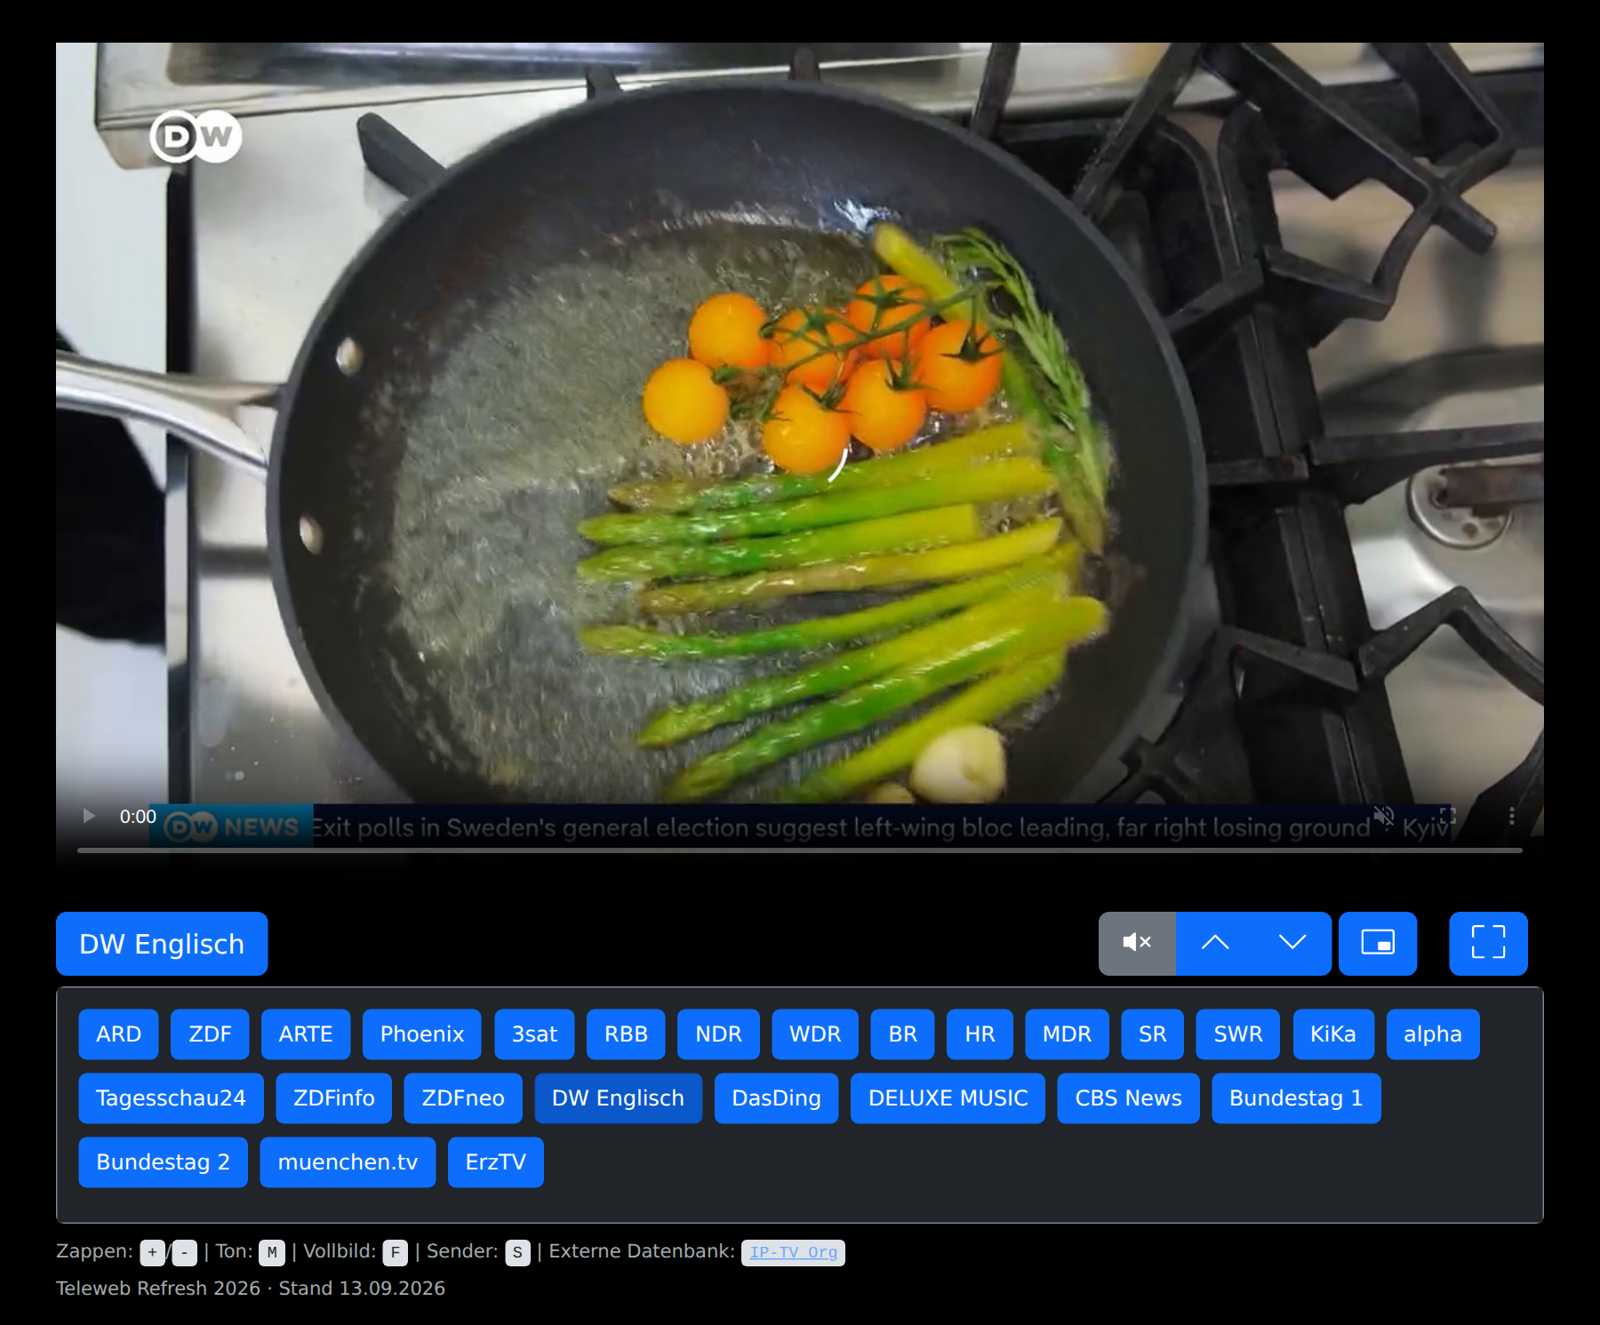
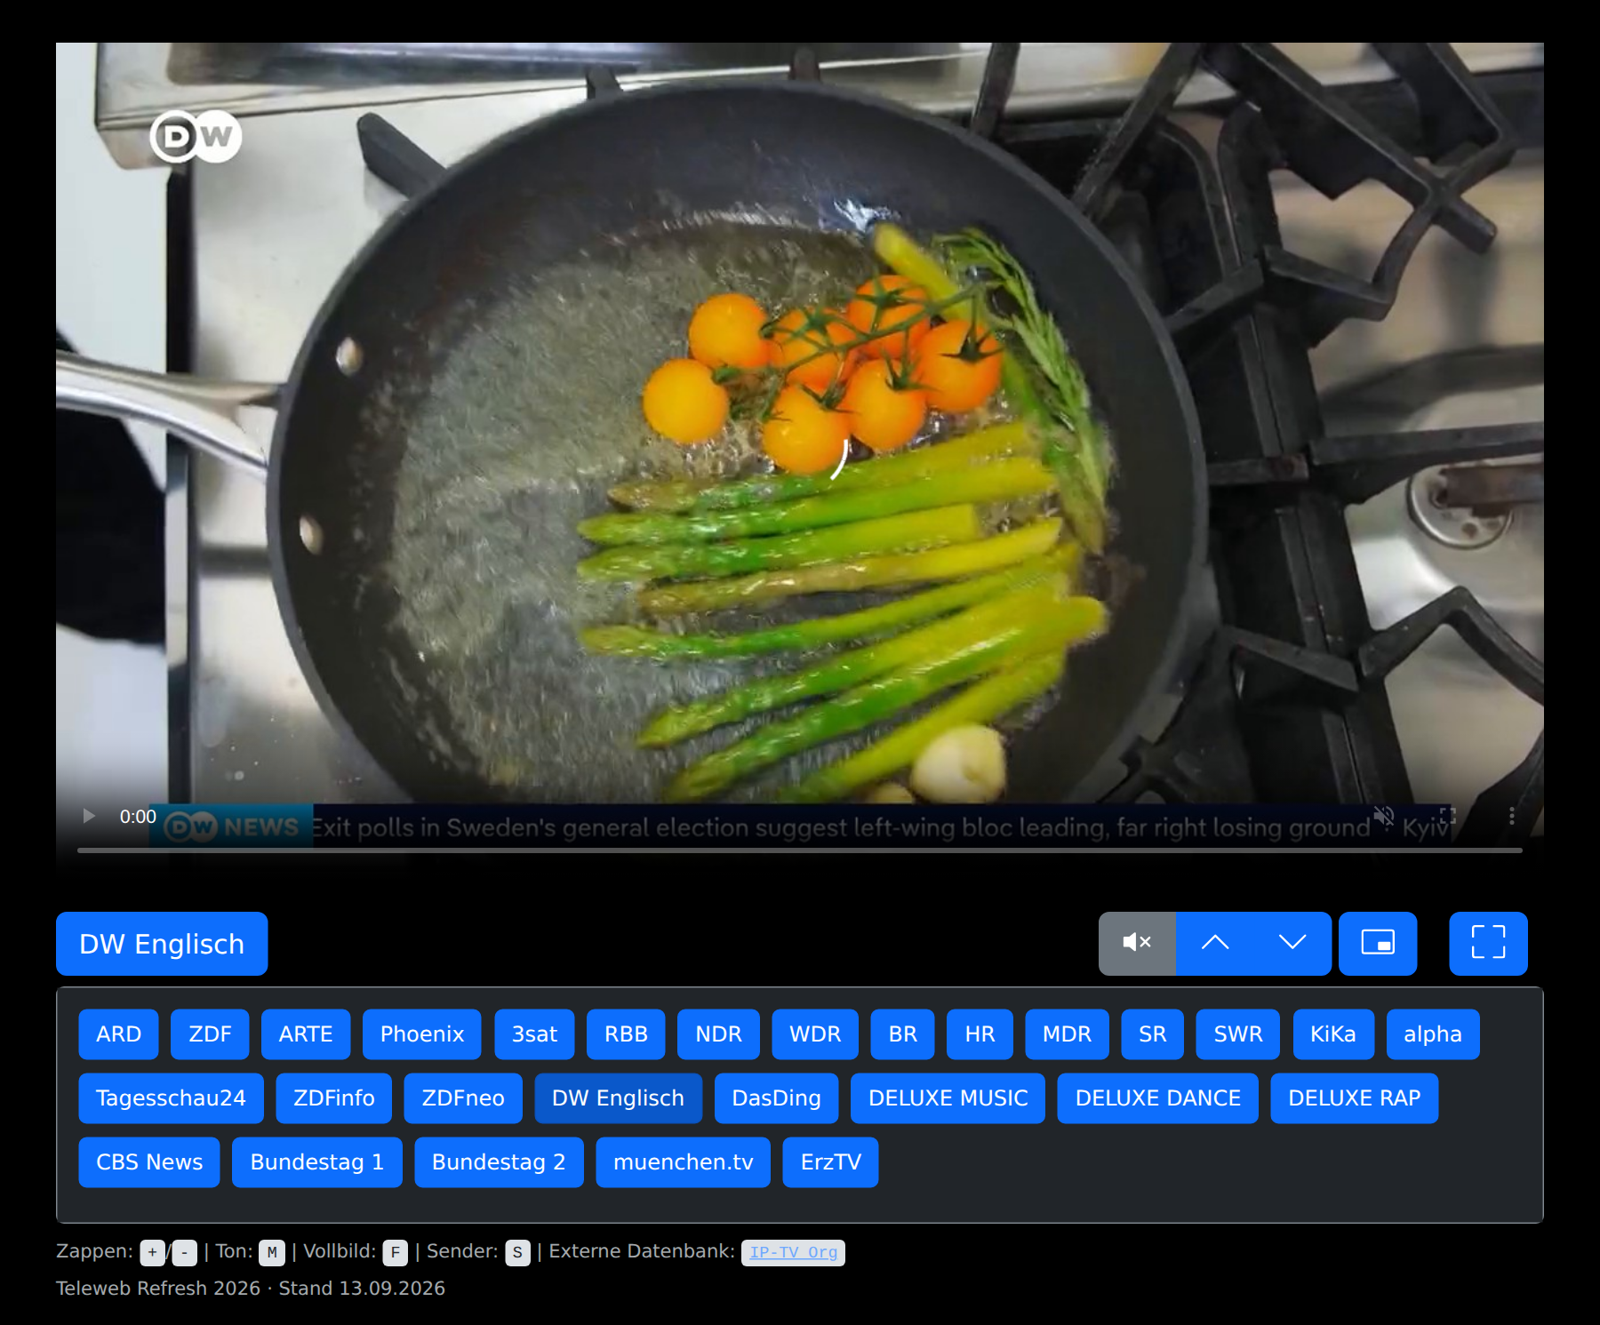
DELUXE DANCE und DELUXE RAP aufgenommen
Beide Streams laufen wieder über den offiziellen 3Q-SDN-Endpunkt (bis 1080p,
CORS-Header gesetzt) und wurden per Standbild verifiziert (Einblendungen
"DLX Dance" bzw. "DLX Rap"). DELUXE MUSIC selbst liefert weiterhin Musik
(Jukebox-Programm, zwischendurch Werbeblöcke).

Screenshot und Senderliste in der readme entsprechend aktualisiert.

Claude-Session: https://claude.ai/code/session_01KDFSwirStTKvSSzuZMQcfw

Changed region(s): [[0.0625, 0.8355, 0.5625, 0.8974], [0.6562, 0.8045, 0.9062, 0.8664]]

diff --git a/index.html b/index.html
@@ -29,6 +29,8 @@
 			'DW Englisch' : 'https://dwamdstream102.akamaized.net/hls/live/2015525/dwstream102/index.m3u8',
 			'DasDing' : 'https://swrdasdingvr-hls.akamaized.net/hls/live/2018681/dasdingvr/master.m3u8',
 			'DELUXE MUSIC' : 'https://sdn-global-live-streaming-packager-cache.3qsdn.com/13456/13456_264_live.m3u8',
+			'DELUXE DANCE' : 'https://sdn-global-live-streaming-packager-cache.3qsdn.com/64733/64733_264_live.m3u8',
+			'DELUXE RAP' : 'https://sdn-global-live-streaming-packager-cache.3qsdn.com/65183/65183_264_live.m3u8',
 			'CBS News' : 'https://cbsn-us.cbsnstream.cbsnews.com/out/v1/55a8648e8f134e82a470f83d562deeca/master.m3u8',
 			'Bundestag 1' : 'https://cldf-hlsgw.r53.cdn.tv1.eu/1000153copo/hk1.m3u8',
 			'Bundestag 2' : 'https://cldf-hlsgw.r53.cdn.tv1.eu/1000153copo/hk2.m3u8',

diff --git a/readme.md b/readme.md
@@ -19,7 +19,8 @@ Steht eine Tastatur zur Verfügung, lässt sich zwischen den Sendern mit den Tas
 | --- | --- |
 | Öffentlich-Rechtliche | ARD, ZDF, ARTE, Phoenix, 3sat, RBB, NDR, WDR, BR, HR, MDR, SR, SWR, KiKa, alpha, Tagesschau24, ZDFinfo, ZDFneo |
 | Auslandssender | DW Englisch, CBS News |
-| Sonstige | DasDing, DELUXE MUSIC, Bundestag 1+2, muenchen.tv, ErzTV |
+| Musik | DasDing, DELUXE MUSIC, DELUXE DANCE, DELUXE RAP |
+| Sonstige | Bundestag 1+2, muenchen.tv, ErzTV |
 
 Die meisten Streams der Öffentlich-Rechtlichen sind **geo-gesperrt**: Außerhalb Deutschlands antworten sie mit „403 Access Denied“ oder leiten auf eine internationale Variante mit eingeschränktem Programm um (z.&nbsp;B. ARD, NDR, WDR, BR, HR, KiKa). Die Bundestag-Streams laufen nur während der Sitzungen und liegen derzeit nur in 480p vor.
 
